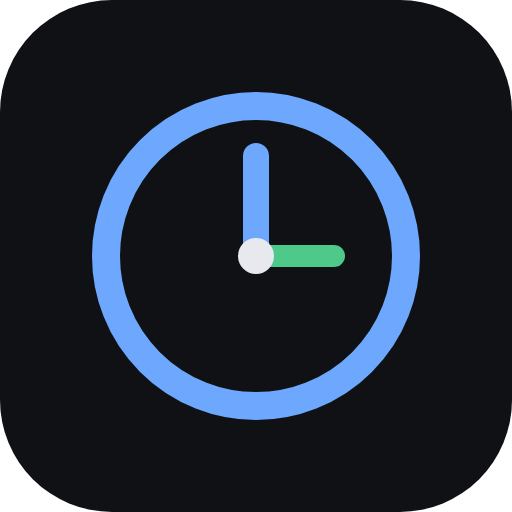
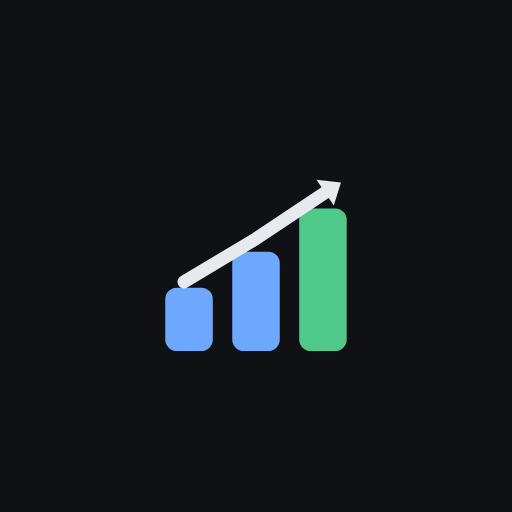
Update Metadata.

diff --git a/src/components/Settings.svelte b/src/components/Settings.svelte
@@ -279,6 +279,16 @@
   <button onclick={() => confirm("Reset all data to defaults?") && resetState()}>Reset</button>
 </div>
 
+<footer class="app-foot muted">
+  <span>© 2026 Tolin Simpson</span>
+  <span aria-hidden="true">·</span>
+  <a
+    href="https://github.com/TolinSimpson/business-management-suite"
+    target="_blank"
+    rel="noopener noreferrer">Source code</a
+  >
+</footer>
+
 <style>
   .set-row {
     display: flex;
@@ -408,6 +418,19 @@
   .badge.on {
     background: var(--accent-dim);
     border-color: var(--accent);
+    color: var(--accent);
+  }
+
+  /* App footer: copyright + source link */
+  .app-foot {
+    display: flex;
+    align-items: center;
+    justify-content: center;
+    gap: 8px;
+    padding: 20px 0 8px;
+    font-size: 0.78rem;
+  }
+  .app-foot a {
     color: var(--accent);
   }
 

diff --git a/vite.config.ts b/vite.config.ts
@@ -13,7 +13,7 @@ export default defineConfig({
     VitePWA({
       registerType: "autoUpdate",
       injectRegister: "auto",
-      includeAssets: ["icon.svg"],
+      includeAssets: ["icon.svg", "icon-maskable.svg"],
       // Let the SW work on the dev server so installability can be tested.
       devOptions: { enabled: true },
       workbox: {
@@ -42,6 +42,8 @@ export default defineConfig({
         background_color: "#0f1115",
         theme_color: "#0f1115",
         icons: [
+          // Scalable vector preferred where supported; PNGs are the fallback.
+          { src: "icon.svg", sizes: "any", type: "image/svg+xml", purpose: "any" },
           { src: "icon-192.png", sizes: "192x192", type: "image/png", purpose: "any" },
           { src: "icon-512.png", sizes: "512x512", type: "image/png", purpose: "any" },
           { src: "icon-maskable-512.png", sizes: "512x512", type: "image/png", purpose: "maskable" },

diff --git a/README.md b/README.md
@@ -1,4 +1,6 @@
-# Business Management Tool
+[![Deploy to GitHub Pages](https://github.com/TolinSimpson/business-management-suite/actions/workflows/deploy.yml/badge.svg)](https://github.com/TolinSimpson/business-management-suite/actions/workflows/deploy.yml)
+
+# Business Management Suite
 
 An all-in-one app for running a small team from your phone: everyone sees their own
 daily schedule, a shared staff directory, and a simple budget/pay overview — plus